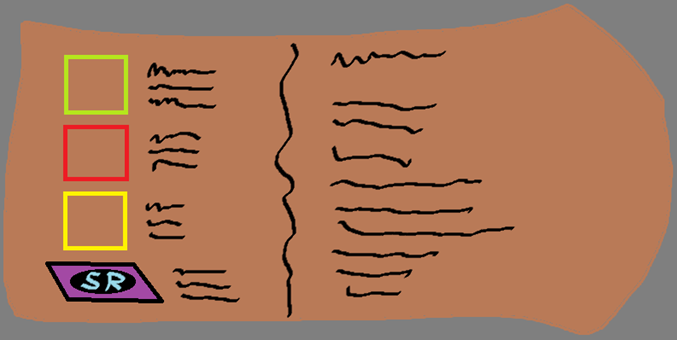
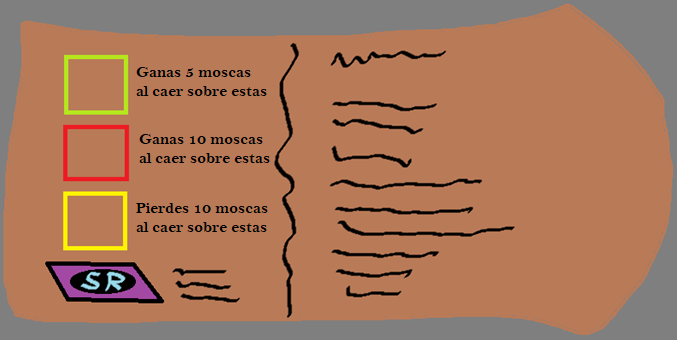
Agregado comportamiento casillas y ayuda

Changed region(s): [[0.1861, 0.5882, 0.4032, 0.7059], [0.1861, 0.3824, 0.4032, 0.5], [0.1861, 0.1765, 0.4032, 0.3235]]

diff --git a/src/scenes/play.js b/src/scenes/play.js
@@ -4,6 +4,8 @@ var player;
 var proxcas = 0;
 var accas = 0;
 var CasRojas;
+var CasVerdes;
+var CasAmar;
 var score = 0;
 var scoreText;
 var XD;
@@ -46,14 +48,13 @@ export class Play extends Phaser.Scene {
     player = this.physics.add.image(spawnPoint.x, spawnPoint.y, "sapo");
 
     player.setCollideWorldBounds(true);
-      
+    
+    //Parte físicas de casillas
     CasRojas = this.physics.add.group();
     objectsLayer.objects.forEach((objData) => {
       const { x = 0, y = 0, name, type } = objData;
       switch (name) {
         case "CasRojas": {
-          // add casilla to scene
-          // console.log("casilla agregada: ", x, y);
           var Rojas = CasRojas.create(x, y, "rojas");
           Rojas.setBounceY(0);
           break;
@@ -61,20 +62,51 @@ export class Play extends Phaser.Scene {
       }
     });
 
+    CasVerdes = this.physics.add.group();
+    objectsLayer.objects.forEach((objData) => {
+      const { x = 0, y = 0, name, type } = objData;
+      switch (name) {
+        case "CasVerdes": {
+          var Verde = CasVerdes.create(x, y, "verdes");
+          Verde.setBounceY(0);
+          break;
+        }
+      }
+    });
+
+    CasAmar = this.physics.add.group();
+    objectsLayer.objects.forEach((objData) => {
+      const { x = 0, y = 0, name, type } = objData;
+      switch (name) {
+        case "CasAmar": {
+          var Amar = CasAmar.create(x, y, "amarillas");
+          Amar.setBounceY(0);
+          break;
+        }
+      }
+    });
+
+    //Textou
     scoreText = this.add.text(30, 6, "Moscas: " + score, {
       fontSize: "32px",
       fill: "#000",
     });
 
+    //Agregamos collider con el tablero
     this.physics.add.collider(player, worldLayer);
     this.physics.add.collider(CasRojas, worldLayer);
-    
+    this.physics.add.collider(CasVerdes, worldLayer);
+    this.physics.add.collider(CasAmar, worldLayer);
+
+    //Agregamos overlap las casillas
     this.physics.add.overlap(player, CasRojas, this.roja, null, this);
+    this.physics.add.overlap(player, CasVerdes, this.verde, null, this);
+    this.physics.add.overlap(player, CasAmar, this.amarilla, null, this);
     
 
 
     
-    new Button( //Ayuda
+    new Button( //Lanzar Dado
       this.cameras.main.centerX,
       this.cameras.main.centerY + this.cameras.main.centerY / 1.2,
       "Lanzar Dado",
@@ -112,17 +144,18 @@ export class Play extends Phaser.Scene {
         accas = 0;
       });
 
-      new Button( //Ayuda
-        this.cameras.main.centerX + this.cameras.main.centerX/1.2,
-        this.cameras.main.centerY + this.cameras.main.centerY/1.2,
-        "?",
-        this,
-        () => {
-          // Instrucción para pasar a la escena ayuda
-          this.scene.start("Ayuda"), { score: score };
-        });
-        sonid4 = this.sound.add('dado');
-        gameOver = false;
+    new Button( //Ayuda
+      this.cameras.main.centerX + this.cameras.main.centerX/1.2,
+      this.cameras.main.centerY + this.cameras.main.centerY/1.2,
+       "?",
+      this,
+      () => {
+        // Instrucción para pasar a la escena ayuda
+        this.scene.switch("Ayuda"), { score: score };
+      });
+
+      sonid4 = this.sound.add('dado');
+      gameOver = false;
   }
 
   update() {
@@ -132,9 +165,25 @@ export class Play extends Phaser.Scene {
     }
   }
     //Funciones
-    roja(rojas){
+    roja(){
       if (XD == 1) {
         score += 10;
+        scoreText.setText("Moscas: " + score);
+        XD +=1;
+      }
+    }
+
+    verde(){
+      if (XD == 1) {
+        score += 5;
+        scoreText.setText("Moscas: " + score);
+        XD +=1;
+      }
+    }
+
+    amarilla(){
+      if (XD == 1) {
+        score -= 5;
         scoreText.setText("Moscas: " + score);
         XD +=1;
       }

diff --git a/src/scenes/ayuda.js b/src/scenes/ayuda.js
@@ -11,12 +11,12 @@ export class Ayuda extends Phaser.Scene {
         // Boton para volver a la escena de Play
         this.add.image(this.cameras.main.centerX,
             this.cameras.main.centerY,
-                 'ayuda_bg').setScale(1.4);
+                 'ayuda_bg').setScale(2);
         const boton = new Button(this.cameras.main.centerX + this.cameras.main.centerX/1.2,
         this.cameras.main.centerY + this.cameras.main.centerY/1.2,
               '?', this, () => {
             // Instrucción volver a la escena Play
-            this.scene.start("Play"), { score: score };
+            this.scene.switch("Play"), { score: score };
         }); 
     }
 }

diff --git a/src/scenes/preloads.js b/src/scenes/preloads.js
@@ -14,6 +14,8 @@ export class Preloads extends Phaser.Scene {
     //this.load.image('custom_bg','public/assets/images/custom_bg.png');
     this.load.image('sapo','public/assets/images/sapojg1.png');
     this.load.image('rojas','public/assets/images/casillerorojo.png')
+    this.load.image('verdes','public/assets/images/casilleroverde.png')
+    this.load.image('amarillas','public/assets/images/casilleroamar.png')
     this.load.image('tablero_bg','public/assets/images/tablero_bg.png');
     this.load.image('ayuda_bg','public/assets/images/ayuda_bg.png');
   }
